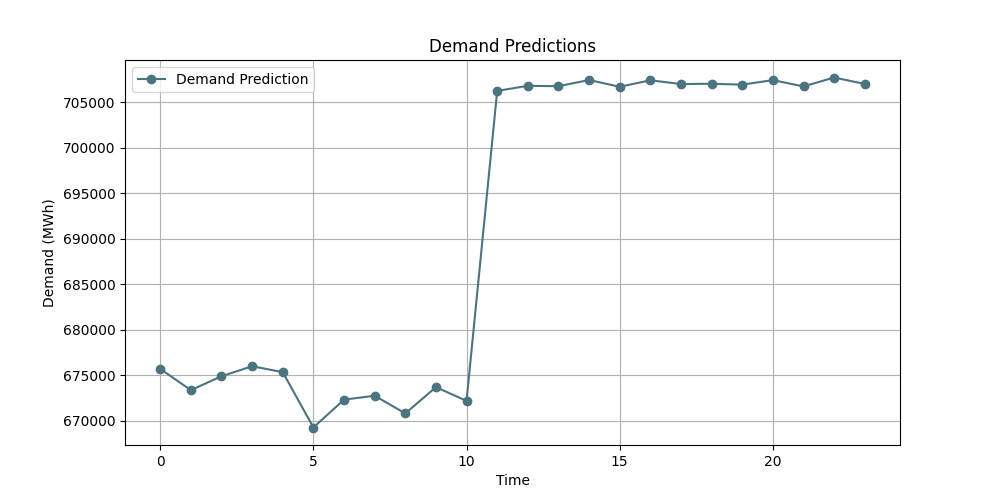
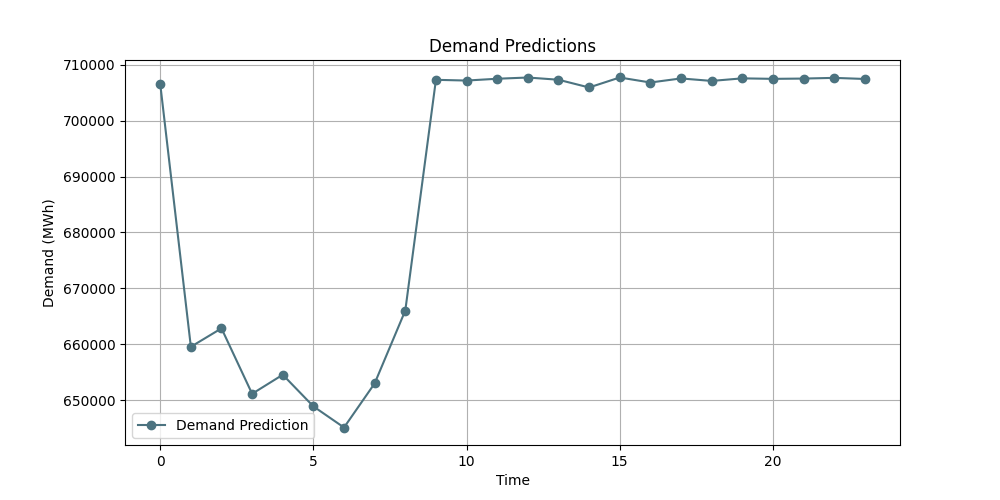
240220 완성

diff --git a/start_django/jejuenergy/src/components/DemandComponent/DemandComponent.jsx b/start_django/jejuenergy/src/components/DemandComponent/DemandComponent.jsx
@@ -48,6 +48,16 @@ function DemandComponent() {
     const fetchData = async () => {
       try {
         const response = await axios.get("http://127.0.0.1:8000/alert_data/");
+        //화석연료쪽
+        const newDataSets = response.data.map((item) => ({
+          time: `${item.index}:00`,
+          demand: item.elec,
+          solarGen: item.solar,
+          windGen: item.wind,
+        }));
+        setDataSets1(newDataSets);
+        console.log(newDataSets);
+        //내림차순 전력
         if (response.data && response.data.length > 0) {
           const sortedData = response.data.sort((a, b) => {
             const totalGenA = parseFloat(a.solar) + parseFloat(a.wind);
@@ -67,30 +77,6 @@ function DemandComponent() {
         }
       } catch (error) {
         console.error("Error fetching data:", error);
-      }
-    };
-
-    fetchData();
-  }, []);
-
-  // backend에서 데이터 받아오기
-  // 조건 : solar + wind가 demand보다 작으면
-  // {time, demand, solarGen, windGen} 형태로 보내야함.
-
-  useEffect(() => {
-    const fetchData = async () => {
-      try {
-        const response = await axios.get("/fuel_data/");
-        const newDataSets = response.data.map((item) => ({
-          time: `${item.index}:00`,
-          demand: item.elec,
-          solarGen: item.solar,
-          windGen: item.wind,
-        }));
-        setDataSets1(newDataSets);
-        console.log(newDataSets);
-      } catch (error) {
-        // Handle error
       }
     };
 

diff --git a/start_django/start_django/call_data/tommorow_data_get.py b/start_django/start_django/call_data/tommorow_data_get.py
@@ -8,11 +8,10 @@ from datetime import date, timedelta
 
 def get_data():
     # 오늘 내일 날짜 불러오기
-    today = date.today() - timedelta(days=1)
+    today = date.today()
     formatted_today = today.strftime('%Y%m%d')
     tomorrow = today + timedelta(days=1)
     formatted_tomorrow = tomorrow.strftime('%Y%m%d')
-
 
     # 날씨 데이터 불러오기
[1 lines of base64/hex data omitted]

diff --git a/start_django/start_django/call_data/tomorrow_energy_data_get.py b/start_django/start_django/call_data/tomorrow_energy_data_get.py
@@ -66,6 +66,8 @@ def get_energy_data():
     y_pred_solar = y_pred_solar.reshape(24)
     y_pred_wind = y_pred_wind.reshape(24)
 
+    y_pred_solar[y_pred_solar < 3] = 0
+    
     return {
         'elec': y_pred_elec.tolist(),
         'solar': y_pred_solar.tolist(),
